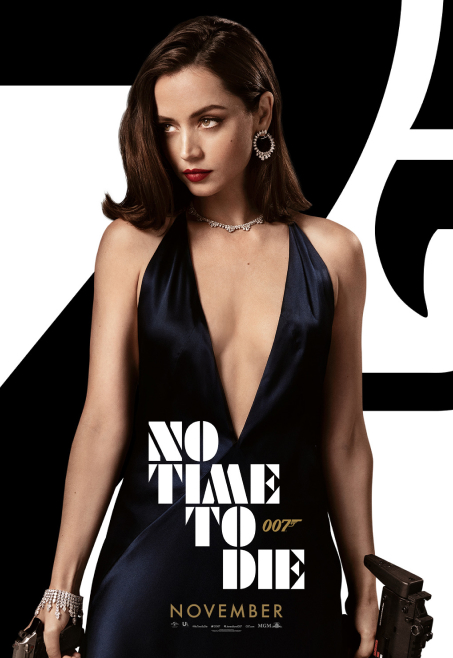
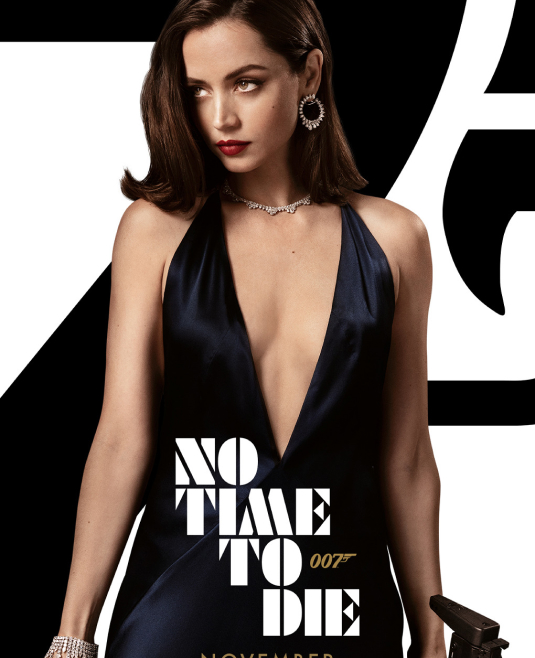
Add responsiveness to posters block

diff --git a/css/style.css b/css/style.css
@@ -1340,10 +1340,20 @@ body {
   left: 0;
   overflow: hidden;
   background-color: rgba(0, 0, 0, 0.3);
+  display: -webkit-box;
+  display: -ms-flexbox;
+  display: flex;
+  -webkit-box-align: center;
+      -ms-flex-align: center;
+          align-items: center;
 }
 .posters__body {
   max-width: 800px;
+  height: 63.5833333333vh;
   margin: 0 auto;
+}
+.posters__slider {
+  height: 100%;
 }
 .slider-posters {
   display: -webkit-box;
@@ -1356,6 +1366,7 @@ body {
   -webkit-box-align: center;
       -ms-flex-align: center;
           align-items: center;
+  height: 47.583333vh;
 }
 .slider-posters__number {
   text-shadow: 7px 6px 13px 0px rgba(0, 0, 0, 0.2);
@@ -1365,6 +1376,12 @@ body {
   font-weight: 700;
   margin: 0 0 48px 0;
 }
+@media (max-width: 480px) {
+  .slider-posters__number {
+    font-size: 36px;
+    margin: 0 0 15vh 0;
+  }
+}
 .slider-posters__body {
   display: -webkit-box;
   display: -ms-flexbox;
@@ -1372,10 +1389,27 @@ body {
   -webkit-box-align: center;
       -ms-flex-align: center;
           align-items: center;
+  height: 100%;
+}
+@media (max-width: 480px) {
+  .slider-posters__body {
+    -ms-flex-wrap: wrap;
+        flex-wrap: wrap;
+    -webkit-box-pack: center;
+        -ms-flex-pack: center;
+            justify-content: center;
+  }
 }
 .slider-posters__button {
   background-color: transparent;
   margin: 0 5.9895833333vw;
+}
+@media (max-width: 480px) {
+  .slider-posters__button {
+    -webkit-box-ordinal-group: 3;
+        -ms-flex-order: 2;
+            order: 2;
+  }
 }
 .slider-posters__button:last-child {
   -webkit-transform: rotate(180deg);
@@ -1385,20 +1419,43 @@ body {
   display: -webkit-box;
   display: -ms-flexbox;
   display: flex;
+  height: 100%;
+}
+@media (max-width: 480px) {
+  .slider-posters__content {
+    -webkit-box-flex: 1;
+        -ms-flex: 1 1 100%;
+            flex: 1 1 100%;
+    -webkit-box-pack: center;
+        -ms-flex-pack: center;
+            justify-content: center;
+    height: 78%;
+  }
 }
 .slider-posters__poster {
   margin: 0 0 44px 0;
   position: relative;
+  height: 100%;
 }
 .slider-posters__poster img {
+  display: none;
+  height: 100%;
   position: absolute;
-  top: 50px;
-  right: -80px;
+  top: 7%;
+  right: -5vh;
   -webkit-transform: scale(0.8);
           transform: scale(0.8);
   -webkit-box-shadow: 16px 10px 13px 0px rgba(0, 0, 0, 0.3);
           box-shadow: 16px 10px 13px 0px rgba(0, 0, 0, 0.3);
   opacity: 0;
+}
+@media (max-width: 620px) {
+  .slider-posters__poster img {
+    top: 1%;
+    right: -5vh;
+    -webkit-transform: scale(0.65);
+            transform: scale(0.65);
+  }
 }
 .slider-posters__indicators {
   display: -webkit-box;
@@ -1407,6 +1464,7 @@ body {
   -webkit-column-gap: 35px;
      -moz-column-gap: 35px;
           column-gap: 35px;
+  padding-bottom: 30px;
 }
 .slider-posters__indicator {
   font-size: 72px;
@@ -1417,6 +1475,7 @@ body {
   z-index: 1;
 }
 .active.slider-posters__poster img {
+  display: block;
   position: relative;
   top: 0;
   left: 0;
@@ -1426,8 +1485,15 @@ body {
           transform: scale(1);
   opacity: 1;
 }
+@media (max-width: 620px) {
+  .active.slider-posters__poster img {
+    max-width: 223px;
+    max-height: 279px;
+  }
+}
 
 .next img {
+  display: block;
   opacity: 1;
 }
 
@@ -1437,4 +1503,14 @@ body {
 
 .active .posters__page {
   visibility: visible;
+}
+
+.posters-slider-background {
+  opacity: 0;
+  -webkit-transition: all 0.3s ease 0s;
+  transition: all 0.3s ease 0s;
+}
+
+.active.posters-slider-background {
+  opacity: 1;
 }

diff --git a/#source/scss/style.scss b/#source/scss/style.scss
@@ -1140,17 +1140,23 @@ body {
     &__page {
         @include pagesSettings(9.16666666667vh, 18vh);
 
-        background-color: rgb(0, 0, 0, 0.3)
+        background-color: rgb(0, 0, 0, 0.3);
+
+        display: flex;
+        align-items: center;
     }
 
     &__container {}
 
     &__body {
         max-width: 800px;
+        height: 63.5833333333vh;
         margin: 0 auto;
     }
 
-    &__slider {}
+    &__slider {
+        height: 100%;
+    }
 
     &__background {}
 }
@@ -1159,6 +1165,7 @@ body {
     display: flex;
     flex-direction: column;
     align-items: center;
+    height: 47.583333vh;
 
     &__number {
         text-shadow: 7px 6px 13px 0px rgba(0, 0, 0, 0.20);
@@ -1167,16 +1174,32 @@ body {
         font-size: 72px;
         font-weight: 700;
         margin: 0 0 48px 0;
+
+        @media (max-width: 480px) {
+            font-size: 36px;
+            margin: 0 0 15vh 0;
+        }
     }
 
     &__body {
         display: flex;
         align-items: center;
+        height: 100%;
+
+        @media (max-width: 480px) {
+            flex-wrap: wrap;
+            justify-content: center;
+        }
+
     }
 
     &__button {
         background-color: transparent;
         margin: 0 5.98958333333vw;
+
+        @media (max-width: 480px) {
+            order: 2;
+        }
 
         &:last-child {
             transform: rotate(180deg);
@@ -1185,25 +1208,42 @@ body {
 
     &__content {
         display: flex;
+        height: 100%;
+
+        @media (max-width: 480px) {
+            flex: 1 1 100%;
+            justify-content: center;
+            height: 78%;
+        }
     }
 
     &__poster {
         margin: 0 0 44px 0;
         position: relative;
+        height: 100%;
 
         img {
+            display: none;
+            height: 100%;
             position: absolute;
-            top: 50px;
-            right: -80px;
+            top: 7%;
+            right: -5vh;
             transform: scale(0.8);
             box-shadow: 16px 10px 13px 0px rgba(0, 0, 0, 0.30);
             opacity: 0;
+
+            @media (max-width: 620px) {
+                top: 1%;
+                right: -5vh;
+                transform: scale(0.65);
+            }
         }
     }
 
     &__indicators {
         display: flex;
         column-gap: 35px;
+        padding-bottom: 30px;
     }
 
     &__indicator {
@@ -1216,6 +1256,7 @@ body {
     z-index: 1;
 
     img {
+        display: block;
         position: relative;
         top: 0;
         left: 0;
@@ -1223,11 +1264,17 @@ body {
         max-width: 537px;
         transform: scale(1);
         opacity: 1;
+
+        @media (max-width: 620px) {
+            max-width: 223px;
+            max-height: 279px;
+        }
     }
 }
 
 .next {
     img {
+        display: block;
         opacity: 1;
     }
 }
@@ -1242,4 +1289,11 @@ body {
 
 .__ibg {}
 
-.posters-slider-background {}
+.posters-slider-background {
+    opacity: 0;
+    transition: all 0.3s ease 0s;
+}
+
+.active.posters-slider-background {
+    opacity: 1;
+}

diff --git a/index.html b/index.html
@@ -43,7 +43,7 @@
             </div>
         </header>
         <main class="main">
-            <div class="main__start start active">
+            <div class="main__start start ">
 
                 <div class="start__page">
                     <div class="start__container">
@@ -241,14 +241,14 @@
                     <img class="slider-background" src="img/characters/backm04.jpg" alt="Background">
                 </div>
             </div>
-            <div class="main__posters posters">
+            <div class="main__posters posters active">
                 <div class="posters__page">
                     <div class="posters__container">
                         <div class="posters__body">
                             <div class="posters__slider slider-posters">
                                 <div class="slider-posters__number">01</div>
                                 <div class="slider-posters__body">
-                                    <button class="slider-posters__button">
+                                    <button class="slider-posters__button __left">
                                         <img src="img/characters/arrow.svg" alt="Left button">
                                     </button>
                                     <div class="slider-posters__content">
@@ -268,7 +268,7 @@
                                             <img src="img/posters/poster05.jpg" alt="Poster">
                                         </div>
                                     </div>
-                                    <button class="slider-posters__button">
+                                    <button class="slider-posters__button __right">
                                         <img src="img/characters/arrow.svg" alt="Left button">
                                     </button>
                                 </div>
@@ -318,6 +318,7 @@
     <script src="js/menu.js"></script>
     <script src="js/main.js"></script>
     <script src="js/characters-swiper.js"></script>
+    <script src="js/posters-swiper.js"></script>
 </body>
 
 </html>

diff --git a/js/characters-swiper.js b/js/characters-swiper.js
@@ -8,7 +8,6 @@ const charactersCardList = document.querySelectorAll('.characters__body > .chara
 const contentSwiper = document.querySelector('.slider-characters__content');
 let contentScrollPosition = 0;
 let stepScrollSize = 190;
-console.log(window.innerWidth)
 if (window.innerWidth < 361) {
     stepScrollSize = 132;
 }
